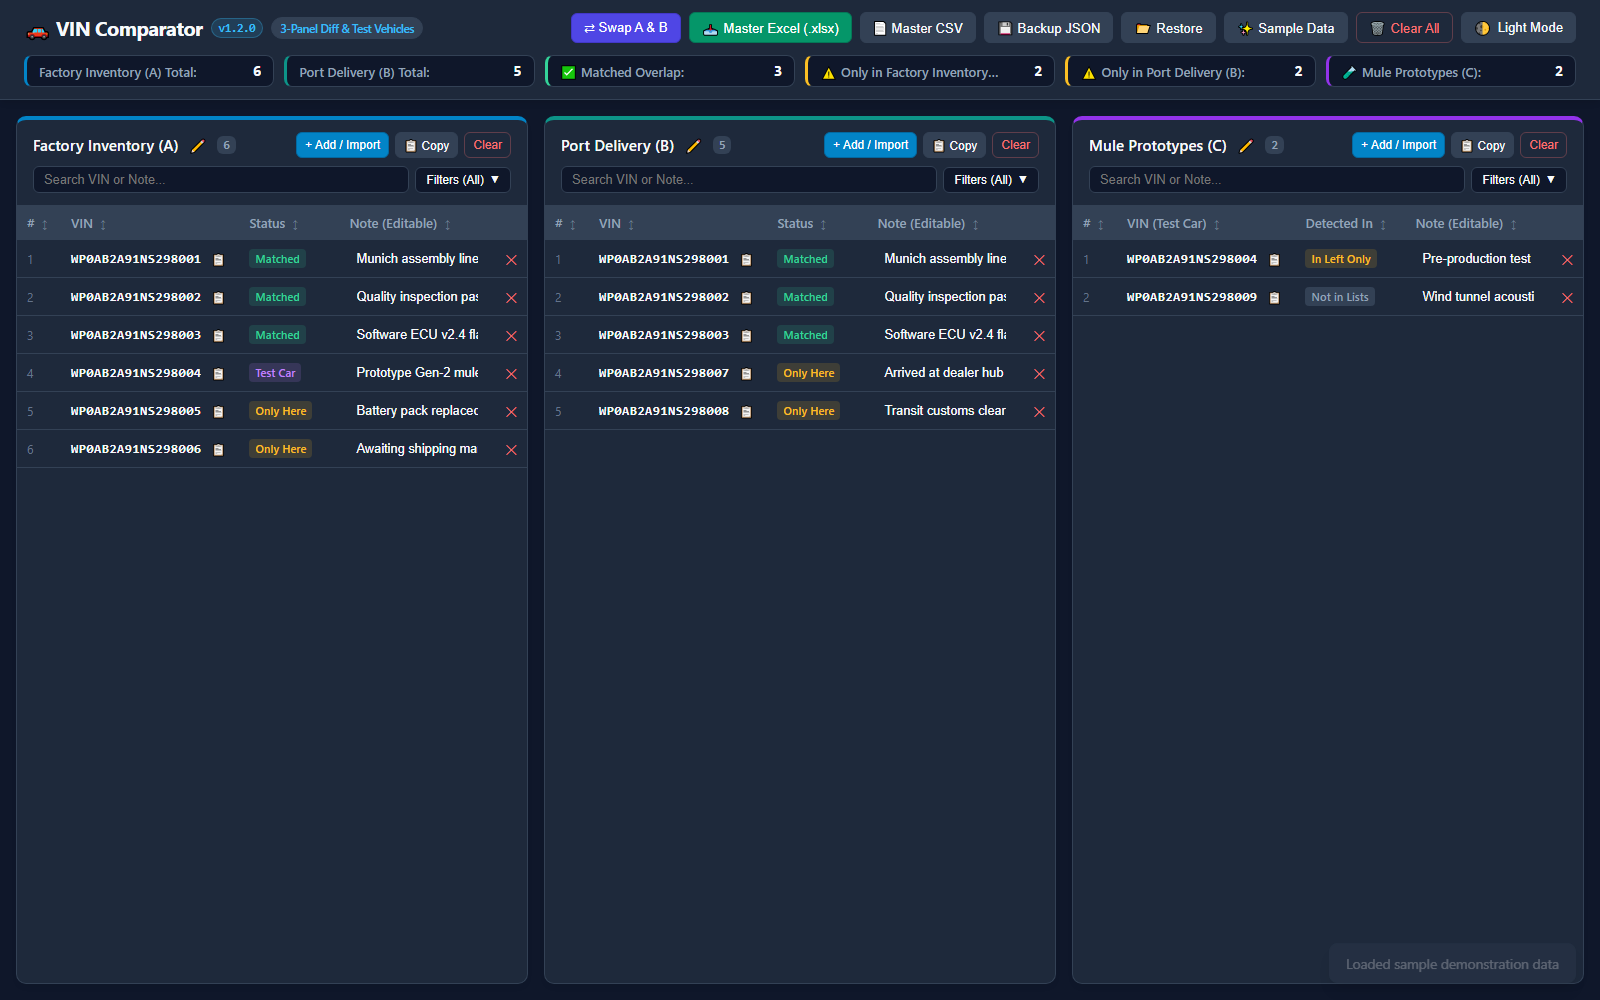
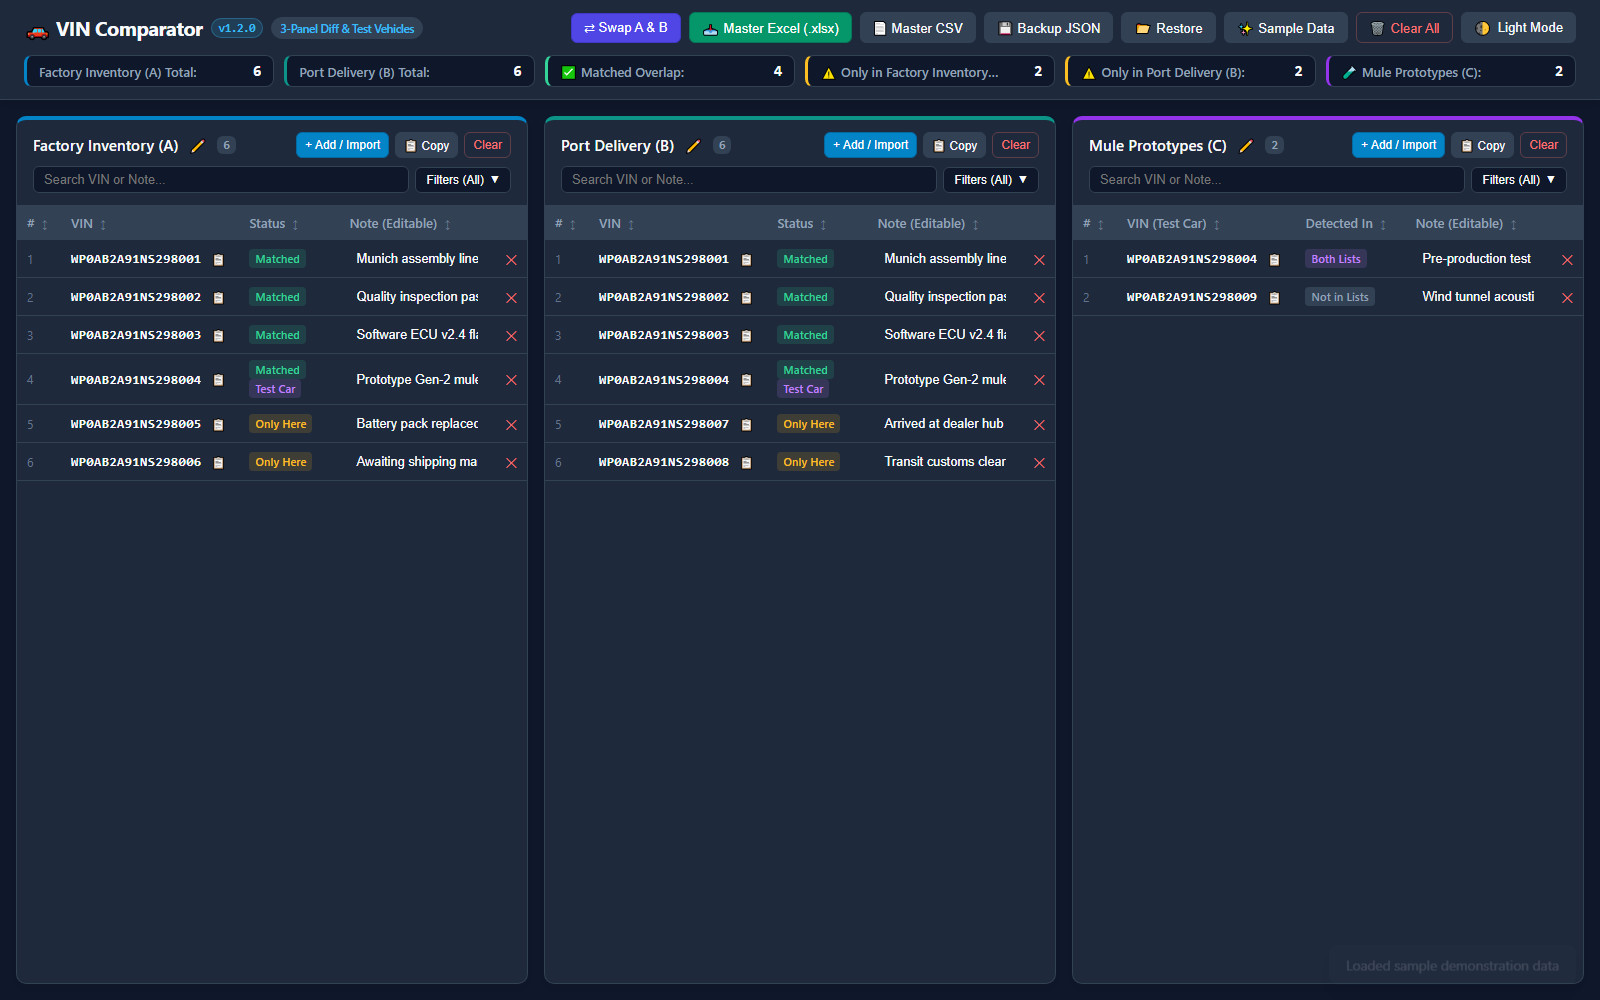
feat: persist column sort settings and support dual Matched + Test Car badging

Changed region(s): [[0.3438, 0.341, 0.6562, 0.496], [0.0312, 0.341, 0.3125, 0.496], [0.8125, 0.248, 0.875, 0.279]]

diff --git a/index.html b/index.html
@@ -984,6 +984,11 @@
       listB: [],
       listC: [],
       listNames: { ...DEFAULT_LIST_NAMES },
+      sortState: {
+        listA: { column: 'index', direction: 'none' }, // 'asc' | 'desc' | 'none'
+        listB: { column: 'index', direction: 'none' },
+        listC: { column: 'index', direction: 'none' }
+      },
       settings: {
         theme: 'dark',
         autoTrimUpper: true,
@@ -991,11 +996,7 @@
       }
     };
 
-    const sortState = {
-      listA: { column: 'index', direction: 'none' }, // 'asc' | 'desc' | 'none'
-      listB: { column: 'index', direction: 'none' },
-      listC: { column: 'index', direction: 'none' }
-    };
+    const sortState = state.sortState;
 
     const filterState = {
       listA: new Set(['MATCHED', 'ONLY_IN_A', 'TEST_VEHICLE']),
@@ -1076,10 +1077,16 @@
       };
 
       for (const item of listA) {
-        if (setC.has(item.vin)) {
+        const inC = setC.has(item.vin);
+        const inB = setB.has(item.vin);
+        if (inC && inB) {
+          statusMapA.set(item.id, 'MATCHED_TEST_VEHICLE');
+          stats.testIgnoredInA++;
+          stats.matched++;
+        } else if (inC) {
           statusMapA.set(item.id, 'TEST_VEHICLE');
           stats.testIgnoredInA++;
-        } else if (setB.has(item.vin)) {
+        } else if (inB) {
           statusMapA.set(item.id, 'MATCHED');
           stats.matched++;
         } else {
@@ -1089,10 +1096,15 @@
       }
 
       for (const item of listB) {
-        if (setC.has(item.vin)) {
+        const inC = setC.has(item.vin);
+        const inA = setA.has(item.vin);
+        if (inC && inA) {
+          statusMapB.set(item.id, 'MATCHED_TEST_VEHICLE');
+          stats.testIgnoredInB++;
+        } else if (inC) {
           statusMapB.set(item.id, 'TEST_VEHICLE');
           stats.testIgnoredInB++;
-        } else if (setA.has(item.vin)) {
+        } else if (inA) {
           statusMapB.set(item.id, 'MATCHED');
         } else {
           statusMapB.set(item.id, 'ONLY_IN_B');
@@ -1144,6 +1156,7 @@
         { id: 'b1', vin: 'WP0AB2A91NS298001', rawVin: 'WP0AB2A91NS298001', note: 'Munich assembly line final pass', addedAt: Date.now() },
         { id: 'b2', vin: 'WP0AB2A91NS298002', rawVin: 'WP0AB2A91NS298002', note: 'Quality inspection passed', addedAt: Date.now() },
         { id: 'b3', vin: 'WP0AB2A91NS298003', rawVin: 'WP0AB2A91NS298003', note: 'Software ECU v2.4 flashed', addedAt: Date.now() },
+        { id: 'b4', vin: 'WP0AB2A91NS298004', rawVin: 'WP0AB2A91NS298004', note: 'Prototype Gen-2 mule', addedAt: Date.now() },
         { id: 'b7', vin: 'WP0AB2A91NS298007', rawVin: 'WP0AB2A91NS298007', note: 'Arrived at dealer hub', addedAt: Date.now() },
         { id: 'b8', vin: 'WP0AB2A91NS298008', rawVin: 'WP0AB2A91NS298008', note: 'Transit customs cleared', addedAt: Date.now() }
       ];
@@ -1171,6 +1184,11 @@
               listB: parsed.listNames.listB || DEFAULT_LIST_NAMES.listB,
               listC: parsed.listNames.listC || DEFAULT_LIST_NAMES.listC
             };
+          }
+          if (parsed.sortState) {
+            state.sortState.listA = parsed.sortState.listA || { column: 'index', direction: 'none' };
+            state.sortState.listB = parsed.sortState.listB || { column: 'index', direction: 'none' };
+            state.sortState.listC = parsed.sortState.listC || { column: 'index', direction: 'none' };
           }
           if (parsed.settings) state.settings = { ...state.settings, ...parsed.settings };
         } else {
@@ -1257,6 +1275,8 @@
         current.column = column;
         current.direction = 'asc';
       }
+      state.sortState[listKey] = { ...current };
+      scheduleSave();
       renderPanel(listKey);
     }
 
@@ -1349,6 +1369,8 @@
         }
       }
       switch (status) {
+        case 'MATCHED_TEST_VEHICLE':
+          return '<span class="badge badge-matched">Matched</span> <span class="badge badge-test">Test Car</span>';
         case 'MATCHED': return '<span class="badge badge-matched">Matched</span>';
         case 'ONLY_IN_A': return '<span class="badge badge-diff">Only Here</span>';
         case 'ONLY_IN_B': return '<span class="badge badge-diff">Only Here</span>';
@@ -1375,7 +1397,16 @@
       }));
 
       let filtered = itemsWithIndex.filter(({ item, status }) => {
-        if (!activeStatuses.has(status)) return false;
+        let passesFilter = false;
+        if (activeStatuses.has(status)) {
+          passesFilter = true;
+        } else if (status === 'MATCHED_TEST_VEHICLE') {
+          if (activeStatuses.has('MATCHED') || activeStatuses.has('TEST_VEHICLE')) {
+            passesFilter = true;
+          }
+        }
+        if (!passesFilter) return false;
+
         if (searchVal) {
           const matchVin = item.vin.toLowerCase().includes(searchVal);
           const matchNote = (item.note || '').toLowerCase().includes(searchVal);
@@ -1639,8 +1670,11 @@
       // Matched Sheet
       const matchedRows = [['VIN', 'Source', 'Note']];
       state.listA.forEach(r => {
-        if (comparison.statusMapA.get(r.id) === 'MATCHED') {
+        const s = comparison.statusMapA.get(r.id);
+        if (s === 'MATCHED') {
           matchedRows.push([r.vin, `Matched in ${nameA} & ${nameB}`, r.note || '']);
+        } else if (s === 'MATCHED_TEST_VEHICLE') {
+          matchedRows.push([r.vin, `Matched in ${nameA} & ${nameB} (Test Vehicle)`, r.note || '']);
         }
       });
       XLSX.utils.book_append_sheet(wb, XLSX.utils.aoa_to_sheet(matchedRows), 'Matched Overlap');
@@ -1724,6 +1758,11 @@
                 listB: parsed.listNames.listB || DEFAULT_LIST_NAMES.listB,
                 listC: parsed.listNames.listC || DEFAULT_LIST_NAMES.listC
               };
+            }
+            if (parsed.sortState) {
+              state.sortState.listA = parsed.sortState.listA || { column: 'index', direction: 'none' };
+              state.sortState.listB = parsed.sortState.listB || { column: 'index', direction: 'none' };
+              state.sortState.listC = parsed.sortState.listC || { column: 'index', direction: 'none' };
             }
             if (parsed.settings) state.settings = parsed.settings;
             updateListTitles();

diff --git a/tests/engine.test.js b/tests/engine.test.js
@@ -33,34 +33,37 @@ test('parsePastedText parses comma and semicolon separated multiple VIN lists', 
   assert.deepEqual(parsedMixed.map(p => p.vin), ['VIN201', 'VIN202', 'VIN203', 'VIN204', 'VIN205', 'VIN206']);
 });
 
-test('computeComparison categorizes Matched, Only in A, Only in B, and Test Vehicles correctly', () => {
+test('computeComparison categorizes Matched, Only in A, Only in B, and dual MATCHED_TEST_VEHICLE correctly', () => {
   const listA = [
     { id: '1', vin: 'VIN_MATCH', note: '' },
     { id: '2', vin: 'VIN_ONLY_A', note: '' },
-    { id: '3', vin: 'VIN_TEST', note: 'Test car' }
+    { id: '3', vin: 'VIN_TEST_BOTH', note: 'In A, B and C' },
+    { id: '4', vin: 'VIN_TEST_ONLY_A', note: 'In A and C only' }
   ];
   const listB = [
-    { id: '4', vin: 'VIN_MATCH', note: '' },
-    { id: '5', vin: 'VIN_ONLY_B', note: '' },
-    { id: '6', vin: 'VIN_TEST', note: 'Test car' }
+    { id: '5', vin: 'VIN_MATCH', note: '' },
+    { id: '6', vin: 'VIN_ONLY_B', note: '' },
+    { id: '7', vin: 'VIN_TEST_BOTH', note: 'In A, B and C' }
   ];
   const listC = [
-    { id: '7', vin: 'VIN_TEST', note: 'Known test car' }
+    { id: '8', vin: 'VIN_TEST_BOTH', note: 'Known test car' },
+    { id: '9', vin: 'VIN_TEST_ONLY_A', note: 'Known test car' }
   ];
 
   const result = computeComparison(listA, listB, listC);
 
   assert.equal(result.statusMapA.get('1'), 'MATCHED');
   assert.equal(result.statusMapA.get('2'), 'ONLY_IN_A');
-  assert.equal(result.statusMapA.get('3'), 'TEST_VEHICLE');
+  assert.equal(result.statusMapA.get('3'), 'MATCHED_TEST_VEHICLE');
+  assert.equal(result.statusMapA.get('4'), 'TEST_VEHICLE');
 
-  assert.equal(result.statusMapB.get('4'), 'MATCHED');
-  assert.equal(result.statusMapB.get('5'), 'ONLY_IN_B');
-  assert.equal(result.statusMapB.get('6'), 'TEST_VEHICLE');
+  assert.equal(result.statusMapB.get('5'), 'MATCHED');
+  assert.equal(result.statusMapB.get('6'), 'ONLY_IN_B');
+  assert.equal(result.statusMapB.get('7'), 'MATCHED_TEST_VEHICLE');
 
   assert.equal(result.stats.matched, 1);
   assert.equal(result.stats.onlyA, 1);
   assert.equal(result.stats.onlyB, 1);
-  assert.equal(result.stats.testIgnoredInA, 1);
+  assert.equal(result.stats.testIgnoredInA, 2);
   assert.equal(result.stats.testIgnoredInB, 1);
 });

diff --git a/src/export.js b/src/export.js
@@ -31,15 +31,22 @@ export function generateMasterExportData(listA, listB, listC, comparison, listNa
 
   for (const item of listA) {
     const status = comparison.statusMapA.get(item.id);
-    if (status === 'MATCHED') matched.push({ vin: item.vin, source: `${nameA} & ${nameB}`, note: item.note });
-    else if (status === 'ONLY_IN_A') onlyA.push({ vin: item.vin, source: nameA, note: item.note });
-    else if (status === 'TEST_VEHICLE') testVehicles.push({ vin: item.vin, source: `Found in ${nameA} (Ignored)`, note: item.note });
+    if (status === 'MATCHED') {
+      matched.push({ vin: item.vin, source: `${nameA} & ${nameB}`, note: item.note });
+    } else if (status === 'MATCHED_TEST_VEHICLE') {
+      testVehicles.push({ vin: item.vin, source: `Found in both ${nameA} & ${nameB} (Matched Test Vehicle)`, note: item.note });
+    } else if (status === 'ONLY_IN_A') {
+      onlyA.push({ vin: item.vin, source: nameA, note: item.note });
+    } else if (status === 'TEST_VEHICLE') {
+      testVehicles.push({ vin: item.vin, source: `Found in ${nameA} (Ignored)`, note: item.note });
+    }
   }
 
   for (const item of listB) {
     const status = comparison.statusMapB.get(item.id);
-    if (status === 'ONLY_IN_B') onlyB.push({ vin: item.vin, source: nameB, note: item.note });
-    else if (status === 'TEST_VEHICLE' && !testVehicles.some(t => t.vin === item.vin)) {
+    if (status === 'ONLY_IN_B') {
+      onlyB.push({ vin: item.vin, source: nameB, note: item.note });
+    } else if ((status === 'TEST_VEHICLE' || status === 'MATCHED_TEST_VEHICLE') && !testVehicles.some(t => t.vin === item.vin)) {
       testVehicles.push({ vin: item.vin, source: `Found in ${nameB} (Ignored)`, note: item.note });
     }
   }

diff --git a/src/engine.js b/src/engine.js
@@ -65,10 +65,16 @@ export function computeComparison(listA = [], listB = [], listC = []) {
   };
 
   for (const item of listA) {
-    if (setC.has(item.vin)) {
+    const inC = setC.has(item.vin);
+    const inB = setB.has(item.vin);
+
+    if (inC && inB) {
+      statusMapA.set(item.id, 'MATCHED_TEST_VEHICLE');
+      stats.testIgnoredInA++;
+    } else if (inC) {
       statusMapA.set(item.id, 'TEST_VEHICLE');
       stats.testIgnoredInA++;
-    } else if (setB.has(item.vin)) {
+    } else if (inB) {
       statusMapA.set(item.id, 'MATCHED');
       stats.matched++;
     } else {
@@ -78,10 +84,16 @@ export function computeComparison(listA = [], listB = [], listC = []) {
   }
 
   for (const item of listB) {
-    if (setC.has(item.vin)) {
+    const inC = setC.has(item.vin);
+    const inA = setA.has(item.vin);
+
+    if (inC && inA) {
+      statusMapB.set(item.id, 'MATCHED_TEST_VEHICLE');
+      stats.testIgnoredInB++;
+    } else if (inC) {
       statusMapB.set(item.id, 'TEST_VEHICLE');
       stats.testIgnoredInB++;
-    } else if (setA.has(item.vin)) {
+    } else if (inA) {
       statusMapB.set(item.id, 'MATCHED');
     } else {
       statusMapB.set(item.id, 'ONLY_IN_B');

diff --git a/tests/app-integrity.test.js b/tests/app-integrity.test.js
@@ -27,8 +27,9 @@ test('index.html exists and contains necessary panels, UI markers, and features'
   // Version in title
   assert.match(html, /v1\.2\.0/i);
 
-  // Column sorting feature
+  // Column sorting feature & persistence
   assert.match(html, /toggleSort/);
+  assert.match(html, /parsed\.sortState/);
 
   // Multi-select status filter feature
   assert.match(html, /toggleFilterDropdown/);
@@ -38,4 +39,7 @@ test('index.html exists and contains necessary panels, UI markers, and features'
   // Big scrollable Add/Import modal with live counter
   assert.match(html, /id="modal-live-counter"/);
   assert.match(html, /updateModalLiveCounter/);
+
+  // Dual badging for matched test vehicles
+  assert.match(html, /MATCHED_TEST_VEHICLE/);
 });
